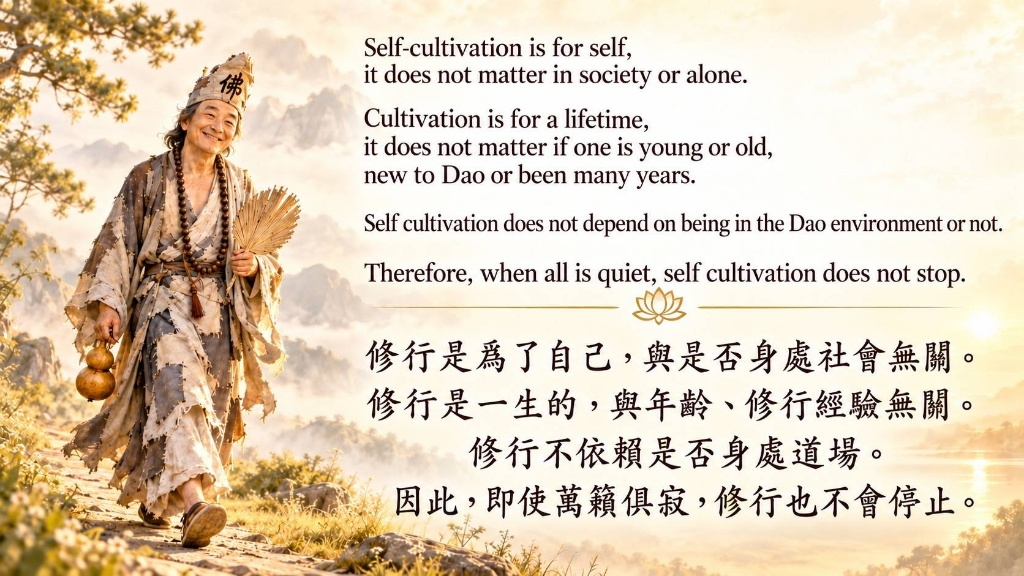
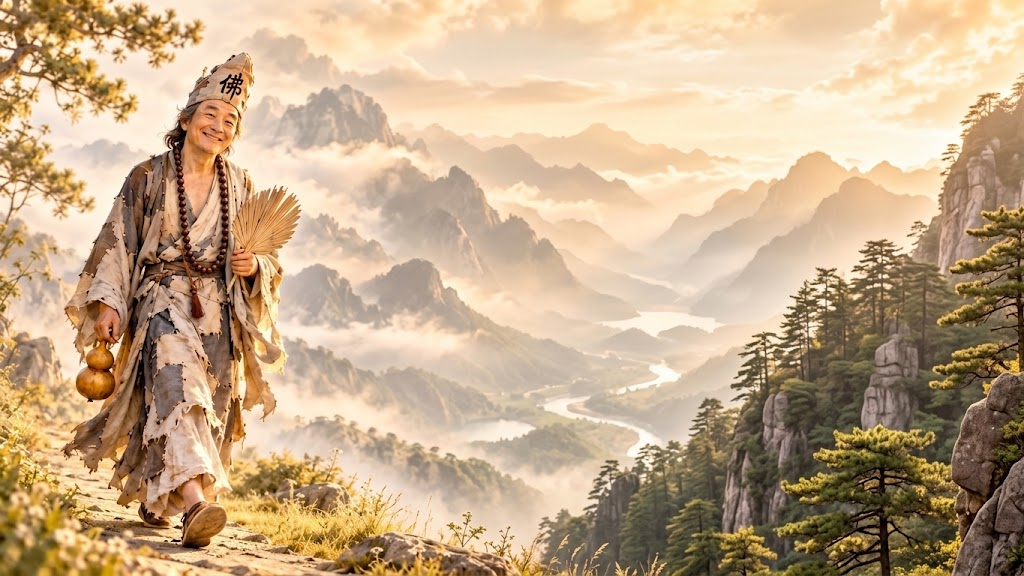
feat: use real JPG background artwork without SVG layers

diff --git a/components/KtvPresentation.tsx b/components/KtvPresentation.tsx
@@ -1,6 +1,5 @@
 import React, { useEffect, useRef, useState } from 'react';
 import { PresentationData } from '../lib/types';
-import { JiGongIllustration } from './JiGongIllustration';
 
 interface KtvPresentationProps {
   presentation: PresentationData;
@@ -49,32 +48,13 @@ export const KtvPresentation: React.FC<KtvPresentationProps> = ({
       id="presentation-viewport"
       className="relative w-full max-w-6xl min-h-[540px] sm:min-h-0 sm:aspect-[16/9] bg-[#1a140e] rounded-2xl overflow-hidden shadow-[0_20px_50px_rgba(0,0,0,0.8)] border border-amber-800/40 select-none flex flex-col justify-between"
     >
-      {/* Ambient Sunlight & Mountain Background Silhouette */}
+      {/* Background Image Layer */}
       <div className="absolute inset-0 z-0 overflow-hidden pointer-events-none">
-        <div className="absolute inset-0 morning-glow"></div>
-        <div className="absolute inset-0 bg-gradient-to-tr from-[#1b140d] via-[#241a12] to-[#3a2617] opacity-95"></div>
-
-        {/* Distant Golden Mountain Ridges */}
-        <svg
-          className="absolute bottom-0 right-0 w-full h-3/4 opacity-35"
-          viewBox="0 0 1440 600"
-          preserveAspectRatio="none"
-        >
-          <path
-            d="M0,600 L110,410 L260,490 L480,310 L670,460 L880,240 L1100,390 L1310,210 L1440,320 L1440,600 Z"
-            fill="#92400e"
-          />
-          <path
-            d="M0,600 L190,470 L380,360 L610,500 L810,330 L1030,470 L1250,290 L1440,440 L1440,600 Z"
-            fill="#592507"
-          />
-        </svg>
-
-        {/* Warm Golden Sun in the East */}
-        <div className="absolute top-[42%] right-[-30px] w-72 h-72 rounded-full bg-gradient-to-tr from-yellow-300/40 via-amber-400/25 to-transparent blur-3xl"></div>
-
-        {/* Master Ji Gong Pure Vector Art */}
-        <JiGongIllustration />
+        <img
+          src="/images/jigong-bg.jpg"
+          alt="修行法語背景圖"
+          className="w-full h-full object-cover object-left sm:object-center"
+        />
       </div>
 
       {/* Floating Bouncing Golden Lotus Marker */}
@@ -88,15 +68,15 @@ export const KtvPresentation: React.FC<KtvPresentationProps> = ({
         }}
       >
         <div className="relative flex items-center justify-center">
-          <svg className="w-5 h-5 text-amber-300 drop-shadow-[0_0_8px_#f59e0b]" viewBox="0 0 24 24" fill="currentColor">
+          <svg className="w-5 h-5 text-amber-500 drop-shadow-[0_0_8px_#f59e0b]" viewBox="0 0 24 24" fill="currentColor">
             <path d="M12 2C12 2 7 8 7 13C7 17.5 12 22 12 22C12 22 17 17.5 17 13C17 8 12 2 12 2Z" opacity="0.95" />
           </svg>
-          <div className="absolute -inset-1 rounded-full bg-amber-400/40 blur-xs animate-ping pointer-events-none"></div>
+          <div className="absolute -inset-1 rounded-full bg-amber-400/50 blur-xs animate-ping pointer-events-none"></div>
         </div>
       </div>
 
       {/* Presentation Central Content Box */}
-      <div className="relative z-20 w-full h-full flex flex-col justify-center pl-[28%] sm:pl-[34%] md:pl-[36%] pr-3 sm:pr-8 py-3 sm:py-5">
+      <div className="relative z-20 w-full h-full flex flex-col justify-center pl-[28%] sm:pl-[34%] md:pl-[35%] pr-3 sm:pr-8 py-3 sm:py-5">
         
         {/* English Verses Container */}
         <div
@@ -140,32 +120,32 @@ export const KtvPresentation: React.FC<KtvPresentationProps> = ({
           })}
         </div>
 
-        {/* Golden Lotus Center Ornament (Exact Replica) */}
+        {/* Golden Lotus Center Ornament */}
         <div className="my-1.5 sm:my-3 flex items-center justify-center gap-3 w-full max-w-xl">
-          <div className="h-[1px] flex-1 bg-gradient-to-r from-transparent via-amber-500/60 to-amber-300"></div>
-          <div className="text-amber-400 flex items-center px-1">
+          <div className="h-[1px] flex-1 bg-gradient-to-r from-transparent via-amber-600/70 to-amber-500"></div>
+          <div className="text-amber-600 flex items-center px-1">
             <svg
-              className="w-6 h-6 sm:w-9 sm:h-9 text-amber-300 drop-shadow-[0_0_8px_#f59e0b]"
+              className="w-6 h-6 sm:w-9 sm:h-9 text-amber-500 drop-shadow-[0_0_8px_#f59e0b]"
               viewBox="0 0 24 24"
               fill="none"
               stroke="currentColor"
-              strokeWidth="1.6"
+              strokeWidth="1.8"
             >
               <path
                 d="M12 3C12 3 8 8 8 13C8 17 12 21 12 21C12 21 16 17 16 13C16 8 12 3 12 3Z"
-                fill="rgba(245, 158, 11, 0.25)"
+                fill="rgba(245, 158, 11, 0.35)"
               />
               <path d="M12 21C7 21 3 17 3 13C3 9 7 7 7 7C7 7 6 12 12 16" />
               <path d="M12 21C17 21 21 17 21 13C21 9 17 7 17 7C17 7 18 12 12 16" />
             </svg>
           </div>
-          <div className="h-[1px] flex-1 bg-gradient-to-l from-transparent via-amber-500/60 to-amber-300"></div>
+          <div className="h-[1px] flex-1 bg-gradient-to-l from-transparent via-amber-600/70 to-amber-500"></div>
         </div>
 
         {/* Traditional Chinese Translation Verses */}
         <div
           id="chinese-lyrics-box"
-          className="space-y-1 text-stone-300 text-[12px] sm:text-[16px] md:text-[20px] lg:text-[23px] font-medium tracking-wide font-serif"
+          className="space-y-1 text-[12px] sm:text-[16px] md:text-[20px] lg:text-[23px] font-medium tracking-wide font-serif"
         >
           {presentation.chineseVerses.map((verse, idx) => {
             const isCnActive = currentTime >= verse.start && currentTime <= verse.end;

diff --git a/app/globals.css b/app/globals.css
@@ -18,54 +18,59 @@ body {
   font-family: 'Playfair Display', Georgia, serif;
 }
 
-/* KTV Golden Word Highlight Mechanics - Pure & Crisp */
+/* KTV Word Highlight - Sharp & High Contrast on Image Background */
 .ktv-word {
   position: relative;
   display: inline-block;
   margin: 0 3px;
-  color: #78716c;
-  transition: color 0.15s ease, text-shadow 0.2s ease;
+  color: #292524;
+  font-weight: 600;
+  transition: color 0.12s ease-out;
   text-rendering: geometricPrecision;
+  text-shadow: 0 1px 1px rgba(255, 255, 255, 0.7);
 }
 
 .ktv-word.active-word {
-  color: #fef08a !important;
-  font-weight: 700 !important;
-  text-shadow: 0 0 14px rgba(245, 158, 11, 0.95), 0 0 26px rgba(251, 191, 36, 0.7);
+  color: #b45309 !important;
+  font-weight: 800 !important;
+  text-shadow: 0 0 12px rgba(245, 158, 11, 0.9), 0 0 20px rgba(251, 191, 36, 0.6) !important;
 }
 
 .ktv-word.past-word {
-  color: #f5f5f4 !important;
-  text-shadow: 0 0 4px rgba(245, 158, 11, 0.25);
+  color: #1c1917 !important;
+  font-weight: 700;
+  text-shadow: 0 1px 1px rgba(255, 255, 255, 0.5);
 }
 
 /* Active Line Transitions */
 .lyrics-row {
-  transition: opacity 0.3s ease;
-  opacity: 0.65;
+  transition: opacity 0.25s ease-out;
+  opacity: 0.85;
 }
 .lyrics-row.active-row {
   opacity: 1 !important;
 }
 
 .chinese-row {
-  transition: all 0.35s ease;
-  color: #8c8278;
+  transition: color 0.25s ease-out, opacity 0.25s ease-out;
+  color: #1c1917;
+  font-weight: 600;
   position: relative;
-  opacity: 0.75;
+  opacity: 0.88;
+  text-shadow: 0 1px 1px rgba(255, 255, 255, 0.7);
 }
 .chinese-row.active-cn {
-  color: #fffbeb !important;
-  font-weight: 700;
-  text-shadow: 0 0 14px rgba(217, 119, 6, 0.8), 0 0 26px rgba(251, 191, 36, 0.5);
+  color: #9a3412 !important;
+  font-weight: 900;
+  text-shadow: 0 0 10px rgba(245, 158, 11, 0.85), 0 1px 1px rgba(255, 255, 255, 0.6) !important;
   opacity: 1;
 }
 .chinese-row.active-cn::before {
   content: '✦';
   position: absolute;
   left: -20px;
-  color: #f59e0b;
-  font-size: 13px;
+  color: #b45309;
+  font-size: 14px;
   animation: spinLotus 3s linear infinite;
 }
 
@@ -93,22 +98,11 @@ body {
 
 @keyframes hopLotus {
   0% {
-    transform: translateY(0px) scale(0.92);
+    transform: translateY(0px) scale(0.95);
   }
   100% {
     transform: translateY(-8px) scale(1.15);
   }
-}
-
-/* Sunrise Light Beam & Glow */
-.morning-glow {
-  background: radial-gradient(
-    circle at 88% 55%,
-    rgba(254, 215, 170, 0.32) 0%,
-    rgba(245, 158, 11, 0.18) 35%,
-    rgba(120, 53, 15, 0.05) 65%,
-    transparent 100%
-  );
 }
 
 @keyframes fadeIn {
